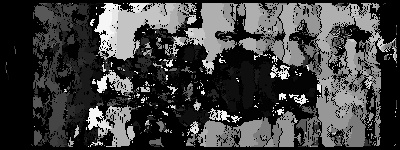
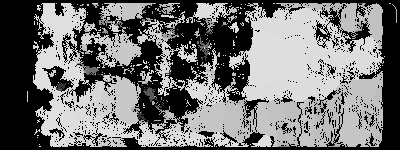
aruko

diff --git a/camera/python/deparity_map.py b/camera/python/deparity_map.py
@@ -79,8 +79,8 @@ def find_Disparity(left, right, window_size, threshold, median_size):
     # cv2.imshow('Disparity  right', disparity_inv_normalized)
 
     # save the display mood of norm values- to submit results!!
-    cv2.imwrite('disp_left_n.jpg',disparity_normalized)
-    cv2.imwrite('disp_right_n.jpg',disparity_inv_normalized)
+    # cv2.imwrite('disp_left_n.jpg',disparity_normalized)
+    # cv2.imwrite('disp_right_n.jpg',disparity_inv_normalized)
 
     return disparity, disparity_inv
 
@@ -100,7 +100,7 @@ def generate_point_cloud(disparity_map, baseline, focal_length):
 
     # remove outlires
     cloud = cloud[np.isfinite(cloud[:, :, 2])]
-    threshold = np.percentile(cloud[:, 2], 40)
+    threshold = np.percentile(cloud[:, 2], 70)
     cloud = cloud[cloud[:, 2] < threshold]
     cloud[:, 0]  = (cloud[:, 0]-cols/2)/focal_length*cloud[:, 2]
     cloud[:, 1]  = (cloud[:, 1]-rows/2)/focal_length*cloud[:, 2]
@@ -108,13 +108,14 @@ def generate_point_cloud(disparity_map, baseline, focal_length):
 
 if __name__ == '__main__':
 
-    path = "../videos/rot_low.h264"
+    path = "../videos/low_res.h264"
     cap = cv2.VideoCapture(path)
     for i in range(40):
         cap.read()
     ret1,leftImage = cap.read()
     leftImage = cv2.rotate(leftImage, cv2.ROTATE_90_CLOCKWISE)
     #slice thr human in image
+    cv2.imwrite("left.png",leftImage)
     leftImage = leftImage[250:400,0:400]
     
     for i in range(8):
@@ -122,8 +123,8 @@ if __name__ == '__main__':
     ret2,rightImage = cap.read()
     rightImage = cv2.rotate(rightImage, cv2.ROTATE_90_CLOCKWISE)
     #slice thr human in image
+    cv2.imwrite("right.png",rightImage)
     rightImage = rightImage[250:400,0:400]
-
     camera_matrix = np.loadtxt('../data/K.txt')
     focal_length = camera_matrix[0][0]
 
@@ -131,10 +132,10 @@ if __name__ == '__main__':
     right = cv2.cvtColor(rightImage, cv2.COLOR_BGR2GRAY)
 
     #Var for disparty map
-    baseline = 10
-    window_size=[7,7]
+    baseline = 2
+    window_size=[7, 7]
     threshold = 0.9
-    median_size= 9
+    median_size = 13 #remove noise
 
 
 
